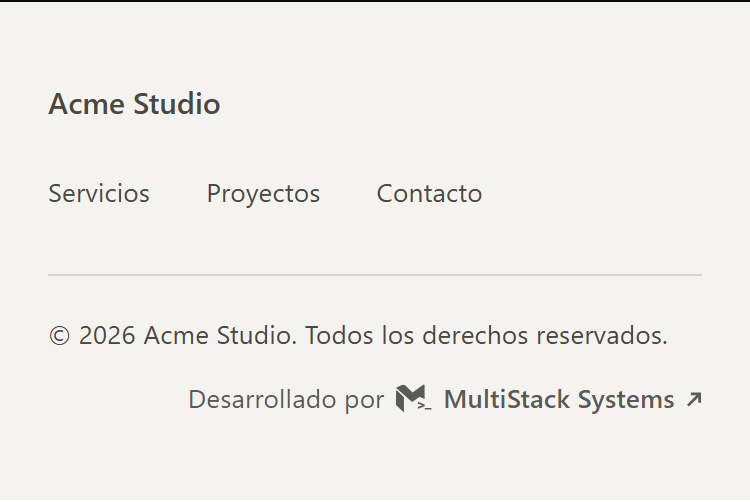
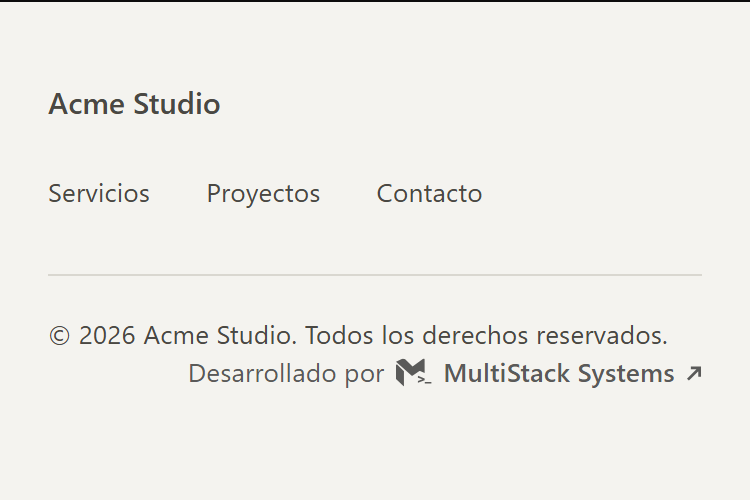
fix(standards): keep the credit's tap area off the copyright and survive enlarged text
Three fixes found on the first site that carries the credit, verified there in
Chromium, Firefox and WebKit before going live:

- Touch: the 44px tap area now grows downwards only, so tapping the line above
  (the copyright) no longer opens the link.
- The isotype no longer makes the credit's line taller than a line of text.
- The standard now tells sites to switch between "beside" and "below" the
  copyright with a container query in ch. A breakpoint in px or em lets the
  credit run into its neighbour when the user sets a minimum font size, because
  the text grows and em does not.

Reference captures regenerated; browsers tested and the checklist updated.

Changed region(s): [[0.2453, 0.7171, 0.9507, 0.8367], [0.92, 0.7171, 0.9507, 0.747]]

diff --git a/snippets/credito-multistack/credito.css b/snippets/credito-multistack/credito.css
@@ -9,7 +9,8 @@ white-space:nowrap;opacity:var(--ms-credit-opacity,.7)}
 .ms-credit[data-align=center]{margin-inline:auto}
 .ms-credit[data-align=end]{margin-inline-start:auto}
 .ms-credit>svg{flex:none}
-.ms-credit>svg:first-of-type{font-size:var(--ms-credit-mark,14px);height:1em;width:1.2635em;transform:translateY(.165em);fill:currentColor}
+/* El margen negativo evita que el isotipo, más alto que el texto, agrande la línea: el crédito mide lo mismo que una línea de texto. */
+.ms-credit>svg:first-of-type{font-size:var(--ms-credit-mark,14px);height:1em;width:1.2635em;margin-top:-.3em;transform:translateY(.165em);fill:currentColor}
 .ms-credit>svg:last-of-type{width:.6em;height:.6em;fill:none;stroke:currentColor;stroke-width:1.4}
 .ms-credit b{font-weight:600;line-height:1.2;padding-bottom:.12em;margin-bottom:-.12em;
 background:linear-gradient(currentColor,currentColor) 0 100%/calc(100%*var(--ms-credit-s)) 1px no-repeat}
@@ -21,8 +22,9 @@ background:linear-gradient(currentColor,currentColor) 0 100%/calc(100%*var(--ms-
 /* Estado activo: --ms-credit-s pasa a 1 y las piezas internas reaccionan. */
 .ms-credit:focus-visible{outline:2px solid;outline-offset:3px;border-radius:2px;opacity:1;--ms-credit-s:1}
 @media (hover:hover) and (pointer:fine){.ms-credit:hover{opacity:1;--ms-credit-s:1}}
-/* Táctil: al menos 44px de alto sea cual sea el interlineado del sitio (13px es el valor para navegadores sin la unidad lh). */
-@media (pointer:coarse){.ms-credit{padding-block:13px;padding-block:max(13px,(44px - 1lh)/2)}}
+/* Táctil: al menos 44px de alto para tocar. El área crece solo hacia abajo, para no tapar la línea de arriba (el copyright).
+   26px es el valor para navegadores sin la unidad lh. */
+@media (pointer:coarse){.ms-credit{padding-bottom:26px;padding-bottom:max(26px,44px - 1lh)}}
 /* Con reduce quedan solo el color y la opacidad; el subrayado aparece de golpe. */
 @media (prefers-reduced-motion:reduce){.ms-credit b{transition:none}}
 @media (prefers-reduced-motion:no-preference){

diff --git a/snippets/credito-multistack/DevCredit.module.css b/snippets/credito-multistack/DevCredit.module.css
@@ -9,7 +9,8 @@ white-space:nowrap;opacity:var(--ms-credit-opacity,.7)}
 .credit[data-align=center]{margin-inline:auto}
 .credit[data-align=end]{margin-inline-start:auto}
 .credit>svg{flex:none}
-.credit>svg:first-of-type{font-size:var(--ms-credit-mark,14px);height:1em;width:1.2635em;transform:translateY(.165em);fill:currentColor}
+/* El margen negativo evita que el isotipo, más alto que el texto, agrande la línea: el crédito mide lo mismo que una línea de texto. */
+.credit>svg:first-of-type{font-size:var(--ms-credit-mark,14px);height:1em;width:1.2635em;margin-top:-.3em;transform:translateY(.165em);fill:currentColor}
 .credit>svg:last-of-type{width:.6em;height:.6em;fill:none;stroke:currentColor;stroke-width:1.4}
 .credit b{font-weight:600;line-height:1.2;padding-bottom:.12em;margin-bottom:-.12em;
 background:linear-gradient(currentColor,currentColor) 0 100%/calc(100%*var(--ms-credit-s)) 1px no-repeat}
@@ -21,8 +22,9 @@ background:linear-gradient(currentColor,currentColor) 0 100%/calc(100%*var(--ms-
 /* Estado activo: --ms-credit-s pasa a 1 y las piezas internas reaccionan. */
 .credit:focus-visible{outline:2px solid;outline-offset:3px;border-radius:2px;opacity:1;--ms-credit-s:1}
 @media (hover:hover) and (pointer:fine){.credit:hover{opacity:1;--ms-credit-s:1}}
-/* Táctil: al menos 44px de alto sea cual sea el interlineado del sitio (13px es el valor para navegadores sin la unidad lh). */
-@media (pointer:coarse){.credit{padding-block:13px;padding-block:max(13px,(44px - 1lh)/2)}}
+/* Táctil: al menos 44px de alto para tocar. El área crece solo hacia abajo, para no tapar la línea de arriba (el copyright).
+   26px es el valor para navegadores sin la unidad lh. */
+@media (pointer:coarse){.credit{padding-bottom:26px;padding-bottom:max(26px,44px - 1lh)}}
 /* Con reduce quedan solo el color y la opacidad; el subrayado aparece de golpe. */
 @media (prefers-reduced-motion:reduce){.credit b{transition:none}}
 @media (prefers-reduced-motion:no-preference){

diff --git a/docs/standards/CREDITO-MULTISTACK.md b/docs/standards/CREDITO-MULTISTACK.md
@@ -67,6 +67,16 @@ En la barra inferior del footer, junto al copyright.
 
 Cuidado con las barras que reparten con `justify-content: space-between` o con grid: añadir un hijo, o ensanchar el primero, mueve a los demás. Ancla entonces el crédito al copyright fuera del flujo (así el copyright conserva su ancho) o bájalo a su propia línea sin ensanchar a ningún hermano. La técnica depende del footer; el criterio no.
 
+**Texto agrandado.** Decide «al lado o debajo» con una medida que siga el tamaño real del texto. Un punto de corte en px de ventana no sirve: con tamaño mínimo de fuente o con zoom solo de texto el crédito crece y se monta sobre lo que tenga al lado. Tampoco sirve `em`: con tamaño mínimo de fuente el texto se dibuja más grande y `em` no cambia (medido en Chromium y en Firefox). `ch` sí sigue al texto en los dos casos. El patrón es una container query sobre la barra, medida en `ch`:
+
+```css
+.pie__barra { container-type: inline-size; }
+/* Por defecto, el crédito va en su propia línea. Al lado, solo si la barra mide N ch o más. */
+@container (min-width: 156ch) { .pie__credito { /* al lado del copyright */ } }
+```
+
+N se mide en cada sitio: el ancho de la barra, en `ch`, desde el que el crédito cabe al lado con aire. Así, con el texto agrandado el crédito baja a su propia línea en vez de solaparse. Donde no hay container queries se queda en su propia línea, que es el caso seguro.
+
 Revisa también los selectores del cliente que alcanzan a cualquier enlace del pie (`footer a`, un `a::after` con subrayado, colores de hover, `position`): neutralízalos solo para el crédito, sin cambiarlos para los demás enlaces.
 
 ## 5. Diseño
@@ -75,7 +85,7 @@ Revisa también los selectores del cliente que alcanzan a cualquier enlace del p
 
 - Tipografía heredada (`font: inherit`) y tamaño igual al del copyright: el componente no fija tamaño, toma el del contenedor.
 - Color del texto del contenedor (o el de `tone`) con **opacidad 0,7** sobre todo el enlace. «MultiStack Systems» en peso 600.
-- Isotipo monocromo (`currentColor`) de **14 px** de alto; el ancho sale de su proporción (888,5 × 703,2). Ajuste óptico de 0,165 em hacia abajo para alinearlo con el texto.
+- Isotipo monocromo (`currentColor`) de **14 px** de alto; el ancho sale de su proporción (888,5 × 703,2). Ajuste óptico de 0,165 em hacia abajo para alinearlo con el texto. Un margen superior negativo evita que agrande la línea: el crédito mide lo mismo que una línea de texto.
 - Flecha ↗ de 0,6 em, trazo de 1,4 en `currentColor`. Separación entre piezas de 0,45 em; el enlace no se parte (`white-space: nowrap`).
 - Sin animación, badge, fondo, borde ni sombra.
 
@@ -124,7 +134,7 @@ Las políticas de spam de Google incluyen entre sus ejemplos de spam de enlaces 
 - **Nombre accesible:** `aria-label="Desarrollado por MultiStack Systems (se abre en una pestaña nueva)"`. Empieza por el texto visible y avisa de la pestaña nueva.
 - **SVG ocultos:** isotipo y flecha llevan `aria-hidden="true"` y `focusable="false"`, sin `<title>`.
 - **Foco visible:** en `:focus-visible` hay un contorno de 2 px, separado 3 px, con esquinas de 2 px y del color del texto (`currentColor`), a opacidad 1. No uses `outline: none`.
-- **Área de toque:** con `(pointer: coarse)` el enlace mide al menos 44 px de alto sin cambiar el tamaño del texto: el padding vertical es el mayor entre 13 px por lado y lo que falte para llegar a 44 px según el interlineado heredado (unidad `lh`). En navegadores sin `lh` se quedan los 13 px fijos, que no llegan a 44 si la línea heredada mide menos de 18 px. Ese padding añade alto en táctil: si el crédito va en su propia línea bajo el copyright, el sitio decide si lo compensa para mantener el ritmo, sin que el área de toque tape otro enlace ni texto que la gente pueda tocar. Comprueba el alto real.
+- **Área de toque:** con `(pointer: coarse)` el enlace mide al menos 44 px de alto sin cambiar el tamaño del texto. El área crece **solo hacia abajo** (`padding-bottom: max(26px, 44px - 1lh)`), para no tapar la línea de arriba: si el crédito va bajo el copyright, tocar el copyright no debe abrir el enlace. Ese padding añade alto en táctil; el sitio puede recuperar parte con un margen inferior negativo, siempre que el área de toque no llegue a otro enlace. Si debajo hay otro enlace y arriba hay sitio libre, redirige el padding con CSS del sitio. En navegadores sin la unidad `lh` quedan 26 px fijos, que no llegan a 44 si la línea heredada mide menos de 18 px. Compruébalo con `document.elementFromPoint` en varios puntos del copyright: el toque tiene que caer en el copyright, no en el enlace.
 - **Movimiento:** `prefers-reduced-motion` según la sección 5.
 - **Contraste:**
 
@@ -211,11 +221,11 @@ De los trazos del archivo maestro editable de la marca (privado), sin trazar nin
 
 ## 13. Límites conocidos
 
-- **Probado solo en Chromium.** Firefox y Safari están pendientes.
+- **Navegadores:** probado con Playwright en Chromium, Firefox y WebKit (el motor de Safari), sobre un sitio real: 29 anchos de 260 a 1920 px, puntero fino y táctil, tamaño mínimo de fuente de 16 px y zoom solo de texto al 150 % y al 200 %. No se ha probado en un Safari real ni en dispositivos. En WebKit no se pudieron activar el tamaño mínimo de fuente ni el zoom solo de texto.
 - **A 14 px en pantallas 1× el `>_` apenas se resuelve** (el `_` mide unos 3,3 × 0,8 px) y el parpadeo es discreto.
 - **Peso:** el componente solo (marcado y estilos) ocupa unos 1,45 KB en gzip. Medido en un sitio Next real, con sus reglas de ubicación, añadió unos 2,5 KB en gzip y unos 5,9 KB en crudo entre HTML y CSS. En crudo pesa más porque el marcado viaja dos veces: en el HTML y en el payload RSC.
 - **Área de toque:** los 44 px se garantizan con la unidad `lh`; en navegadores que no la soportan dependen del interlineado heredado (sección 8).
-- **Anillo de foco en táctil:** rodea el área de toque de 44 px, no solo el texto. Con un teclado conectado a un dispositivo táctil, el anillo puede rozar la línea de texto vecina si el crédito va pegado al copyright.
+- **Anillo de foco en táctil:** rodea el área de toque (el texto y el espacio de debajo), no solo el texto. Solo se ve con un teclado conectado a un dispositivo táctil.
 - **Idioma:** los textos están en español y no hay prop para cambiarlos. En un sitio en otro idioma hay que traducir a la vez «Desarrollado por» y el `aria-label`.
 - **Peso 600:** si la fuente del cliente no lo incluye, el navegador usará el más cercano disponible para «MultiStack Systems».
 
@@ -230,5 +240,6 @@ De los trazos del archivo maestro editable de la marca (privado), sin trazar nin
 - [ ] Teclado: Tab llega al crédito, el foco se ve y Enter abre el enlace correcto en pestaña nueva.
 - [ ] `prefers-reduced-motion: reduce`: solo cambia el color; sin desplazamiento, crecimiento ni parpadeo.
 - [ ] Se ve bien en 375, 768 y 1440 px; en móvil va en su propia línea.
-- [ ] En táctil el alto del enlace es de 44 px o más.
+- [ ] En táctil el alto del enlace es de 44 px o más, y tocar el copyright no abre el enlace.
+- [ ] Con tamaño mínimo de fuente de 16 px y con zoom solo de texto, el crédito no se monta sobre ningún otro elemento en ningún ancho.
 - [ ] Sin dependencias nuevas; tipos y build del sitio en verde.
